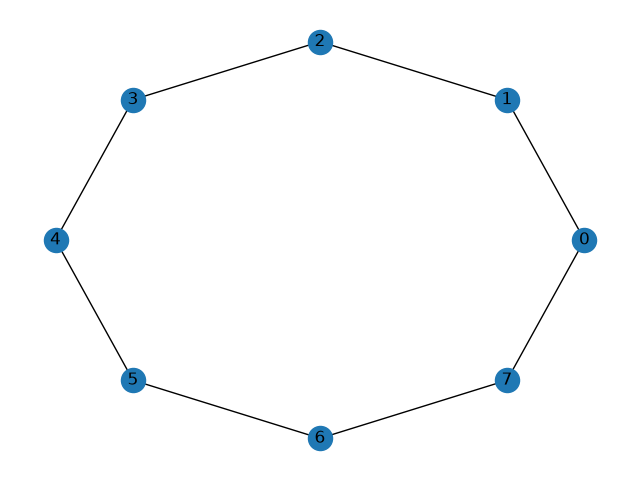
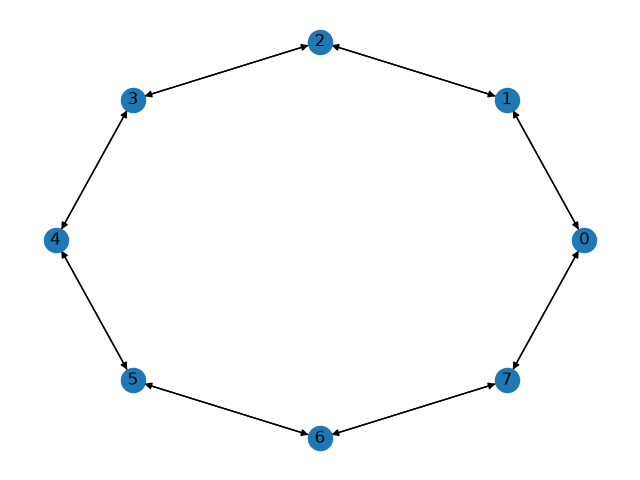
actualizar imagen del grafo

diff --git a/redes_y_comunicacion.py b/redes_y_comunicacion.py
@@ -34,7 +34,7 @@ for numero_del_nodo in range(cantidad_de_nodos):
 
 # creamos imagen del grafo
 networkx.draw_circular(grafo, with_labels=True)
-matplotlib.pyplot.savefig("./grafo_redes_y_comunicacion.png")
+matplotlib.pyplot.savefig("./redes_y_comunicacion_grafo.png")
 
 # mostramos los nodos y las conexiones en la consola
 print("Nodos:")